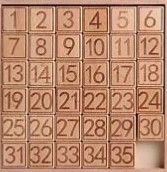
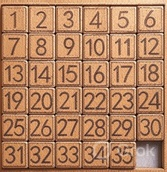
Add files via upload
v0.98 新增空格的換色功能／換了一張數字華榮道的圖

diff --git a/HuaZonDou2/imageSearch.js b/HuaZonDou2/imageSearch.js
@@ -20,58 +20,131 @@ async function verifyPixabayApiKey(apiKey) {
     }
     
     // 使用一個簡單的查詢來測試API序號是否有效
-    const testQuery = 'yellow+flowers';
-    // 添加image_type參數以符合API要求
-    const url = `https://pixabay.com/api/?key=${apiKey}&q=${encodeURIComponent(testQuery)}&image_type=photo&per_page=1`;
+    const testQuery = 'flower';
+    
+    // 修正URL格式，確保使用正確的參數格式
+    // 使用encodeURIComponent處理查詢參數，避免特殊字符問題
+    const url = `https://pixabay.com/api/?key=${encodeURIComponent(apiKey)}&q=${encodeURIComponent(testQuery)}&image_type=photo&per_page=1&safesearch=true`;
     
     console.log('驗證API URL:', url);
+    console.log('使用的API序號:', apiKey);
     
-    // 添加超時設置
-    const controller = new AbortController();
-    const timeoutId = setTimeout(() => controller.abort(), 10000); // 10秒超時
-    
-    try {
-      const response = await fetch(url, { signal: controller.signal });
-      clearTimeout(timeoutId);
+    // 使用Promise包裝XMLHttpRequest，處理跨域問題
+    return new Promise((resolve) => {
+      const xhr = new XMLHttpRequest();
+      xhr.open('GET', url, true);
+      xhr.timeout = 20000; // 增加超時時間
+      xhr.setRequestHeader('Accept', 'application/json');
       
-      if (!response.ok) {
-        throw new Error(`驗證失敗: HTTP狀態碼 ${response.status}`);
-      }
+      // 添加更多請求頭，模擬瀏覽器行為
+      xhr.setRequestHeader('User-Agent', 'Mozilla/5.0');
+      xhr.setRequestHeader('Cache-Control', 'no-cache');
       
-      const data = await response.json();
-      console.log('API驗證響應:', data);
+      xhr.onload = function() {
+        try {
+          console.log('XMLHttpRequest狀態碼:', xhr.status);
+          console.log('XMLHttpRequest響應頭:', xhr.getAllResponseHeaders());
+          console.log('XMLHttpRequest響應文本:', xhr.responseText.substring(0, 200) + '...');
+          
+          // 檢查HTTP狀態碼
+          if (xhr.status !== 200) {
+            console.error(`HTTP錯誤: ${xhr.status} ${xhr.statusText}`);
+            throw new Error(`HTTP錯誤: ${xhr.status} ${xhr.statusText}`);
+          }
+          
+          // 嘗試解析響應
+          let data;
+          try {
+            data = JSON.parse(xhr.responseText);
+            console.log('API驗證響應:', data);
+          } catch (parseError) {
+            console.error('JSON解析錯誤:', parseError, '原始響應:', xhr.responseText);
+            throw new Error('無法解析API響應');
+          }
+          
+          // 檢查API錯誤信息
+          if (data.error) {
+            console.error('API錯誤:', data.error);
+            throw new Error(`API錯誤: ${data.error}`);
+          }
+          
+          // 檢查API響應是否包含預期的字段
+          if (data && (typeof data.totalHits !== 'undefined' || Array.isArray(data.hits))) {
+            // 更新API設定
+            apiSettings.enabled = true;
+            apiSettings.apiKey = apiKey;
+            apiSettings.verified = true;
+            
+            // 保存API設定到localStorage
+            saveApiSettings();
+            
+            // 更新UI狀態
+            const apiStatus = document.getElementById('api-status');
+            if (apiStatus) {
+              apiStatus.textContent = '✓ API驗證成功';
+              apiStatus.className = 'api-status success';
+              
+              // 顯示搜索選項
+              const searchOption = document.getElementById('search-option-container');
+              if (searchOption) {
+                searchOption.classList.remove('hidden');
+              }
+            }
+            
+            console.log('API驗證成功!');
+            resolve(true);
+          } else {
+            console.error('API返回的數據格式不正確:', data);
+            throw new Error('API返回的數據格式不正確');
+          }
+        } catch (error) {
+          console.error('XMLHttpRequest解析錯誤:', error);
+          
+          // 更新UI顯示錯誤信息
+          const apiStatus = document.getElementById('api-status');
+          if (apiStatus) {
+            apiStatus.textContent = `✗ 驗證失敗: ${error.message}`;
+            apiStatus.className = 'api-status error';
+          }
+          
+          resolve(false);
+        }
+      };
       
-      // 檢查返回的數據是否包含預期的字段
-      if (data && typeof data.totalHits !== 'undefined') {
-        // 更新API設定
-        apiSettings.enabled = true;
-        apiSettings.apiKey = apiKey;
-        apiSettings.verified = true;
+      xhr.onerror = function() {
+        console.error('XMLHttpRequest請求錯誤');
         
-        // 保存API設定到localStorage
-        saveApiSettings();
-        
-        // 更新UI狀態
+        // 更新UI顯示錯誤信息
         const apiStatus = document.getElementById('api-status');
         if (apiStatus) {
-          apiStatus.textContent = '✓ API驗證成功';
-          apiStatus.className = 'api-status success';
-          
-          // 顯示搜索選項
-          const searchOption = document.getElementById('search-option-container');
-          if (searchOption) {
-            searchOption.classList.remove('hidden');
-          }
+          apiStatus.textContent = '✗ 驗證失敗: 網絡請求錯誤';
+          apiStatus.className = 'api-status error';
         }
         
-        return true;
-      } else {
-        throw new Error('API返回的數據格式不正確');
+        resolve(false);
+      };
+      
+      xhr.ontimeout = function() {
+        console.error('XMLHttpRequest請求超時');
+        
+        // 更新UI顯示錯誤信息
+        const apiStatus = document.getElementById('api-status');
+        if (apiStatus) {
+          apiStatus.textContent = '✗ 驗證失敗: 請求超時';
+          apiStatus.className = 'api-status error';
+        }
+        
+        resolve(false);
+      };
+      
+      // 發送請求
+      try {
+        xhr.send();
+      } catch (sendError) {
+        console.error('發送請求失敗:', sendError);
+        resolve(false);
       }
-    } catch (fetchError) {
-      clearTimeout(timeoutId);
-      throw fetchError;
-    }
+    });
   } catch (error) {
     console.error('API驗證錯誤:', error);
     
@@ -135,23 +208,56 @@ async function searchPixabayImages(query, page = 1, perPage = 10) {
     }
     
     console.log('使用Pixabay API進行搜索:', query);
-    const url = `https://pixabay.com/api/?key=${apiSettings.apiKey}&q=${encodeURIComponent(query)}&page=${page}&per_page=${perPage}`;
+    // 確保使用正確的URL格式和參數，添加image_type參數
+    const url = `https://pixabay.com/api/?key=${apiSettings.apiKey}&q=${encodeURIComponent(query)}&image_type=photo&page=${page}&per_page=${perPage}`;
+    console.log('搜索API URL:', url);
     
-    const response = await fetch(url);
-    
-    if (!response.ok) {
-      throw new Error(`搜索失敗: ${response.status}`);
-    }
-    
-    const data = await response.json();
-    return data.hits.map(hit => ({
-      id: hit.id,
-      urls: {
-        regular: hit.webformatURL,
-        small: hit.previewURL
-      },
-      alt_description: hit.tags
-    }));
+    // 直接使用XMLHttpRequest，與驗證函數保持一致
+    return new Promise((resolve) => {
+      const xhr = new XMLHttpRequest();
+      xhr.open('GET', url, true);
+      xhr.timeout = 15000;
+      xhr.setRequestHeader('Accept', 'application/json');
+      
+      xhr.onload = function() {
+        try {
+          console.log('XMLHttpRequest狀態碼:', xhr.status);
+          console.log('XMLHttpRequest響應文本:', xhr.responseText.substring(0, 200) + '...');
+          
+          const data = JSON.parse(xhr.responseText);
+          console.log('Pixabay搜索響應:', data);
+          
+          if (data && data.hits && Array.isArray(data.hits)) {
+            resolve(data.hits.map(hit => ({
+              id: hit.id,
+              urls: {
+                regular: hit.webformatURL,
+                small: hit.previewURL
+              },
+              alt_description: hit.tags
+            })));
+          } else {
+            console.error('API返回的數據格式不正確');
+            resolve(useMockData(query));
+          }
+        } catch (error) {
+          console.error('XMLHttpRequest解析錯誤:', error);
+          resolve(useMockData(query));
+        }
+      };
+      
+      xhr.onerror = function() {
+        console.error('XMLHttpRequest請求錯誤');
+        resolve(useMockData(query));
+      };
+      
+      xhr.ontimeout = function() {
+        console.error('XMLHttpRequest請求超時');
+        resolve(useMockData(query));
+      };
+      
+      xhr.send();
+    });
   } catch (error) {
     console.error('Pixabay圖片搜索錯誤:', error);
     return useMockData(query);

diff --git a/HuaZonDou2/styles.css b/HuaZonDou2/styles.css
@@ -382,7 +382,6 @@ button.selected {
     transition: none; /* 移除過渡效果，提高交換速度 */
   }
 }
-}
 
 .game-controls {
   display: flex;
